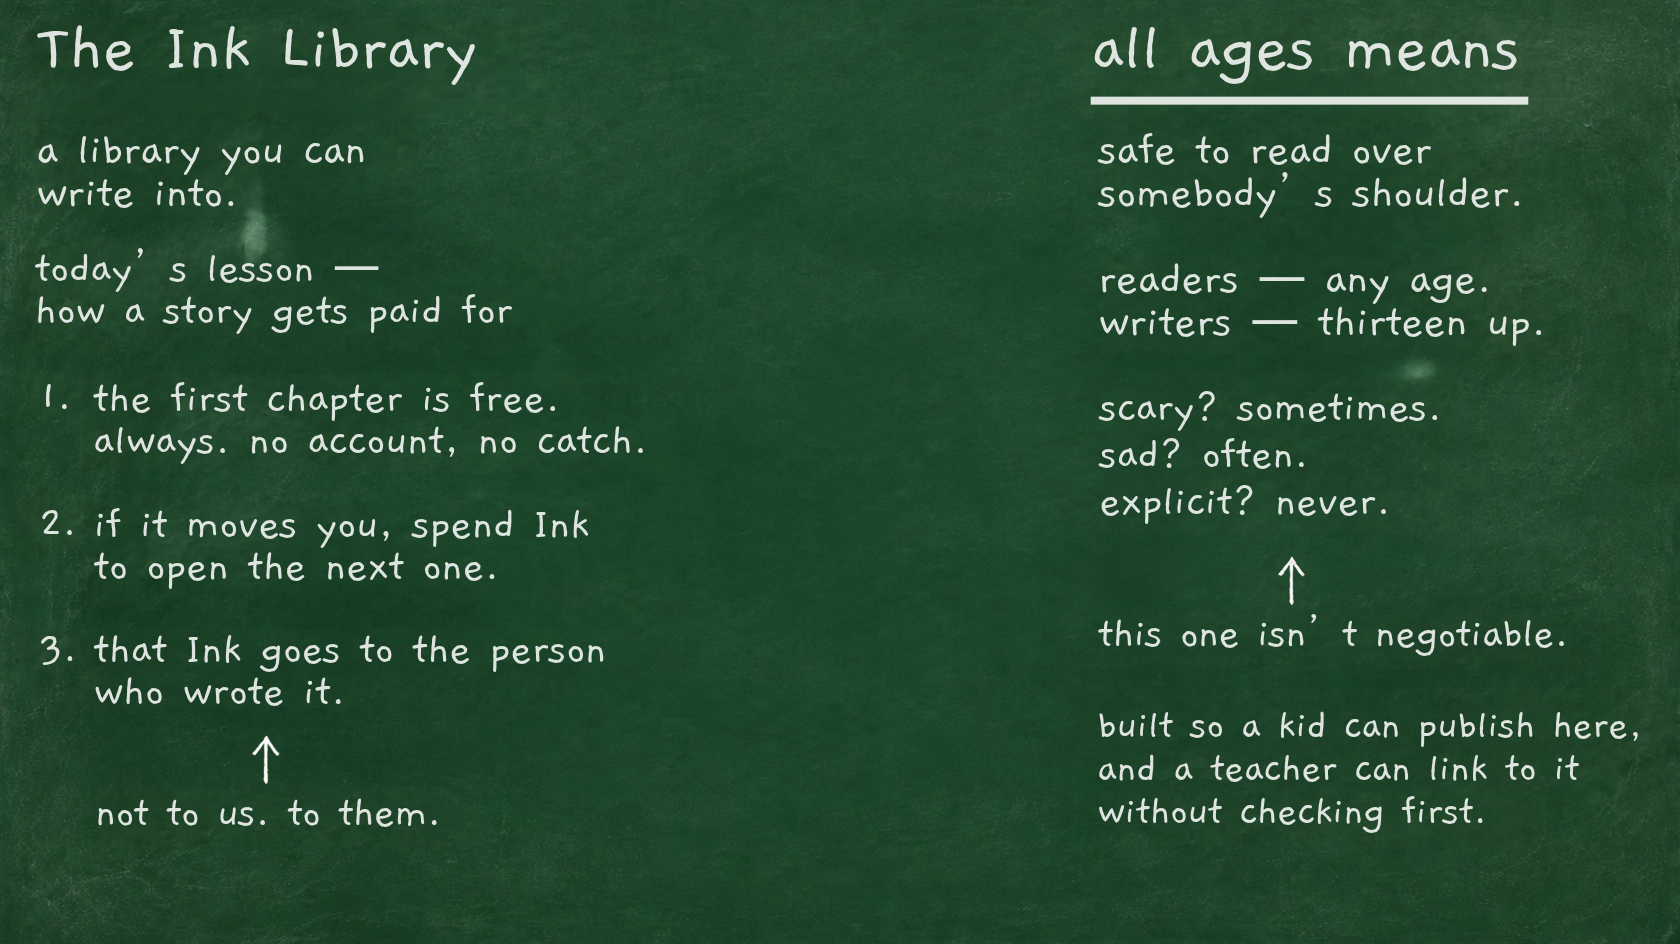
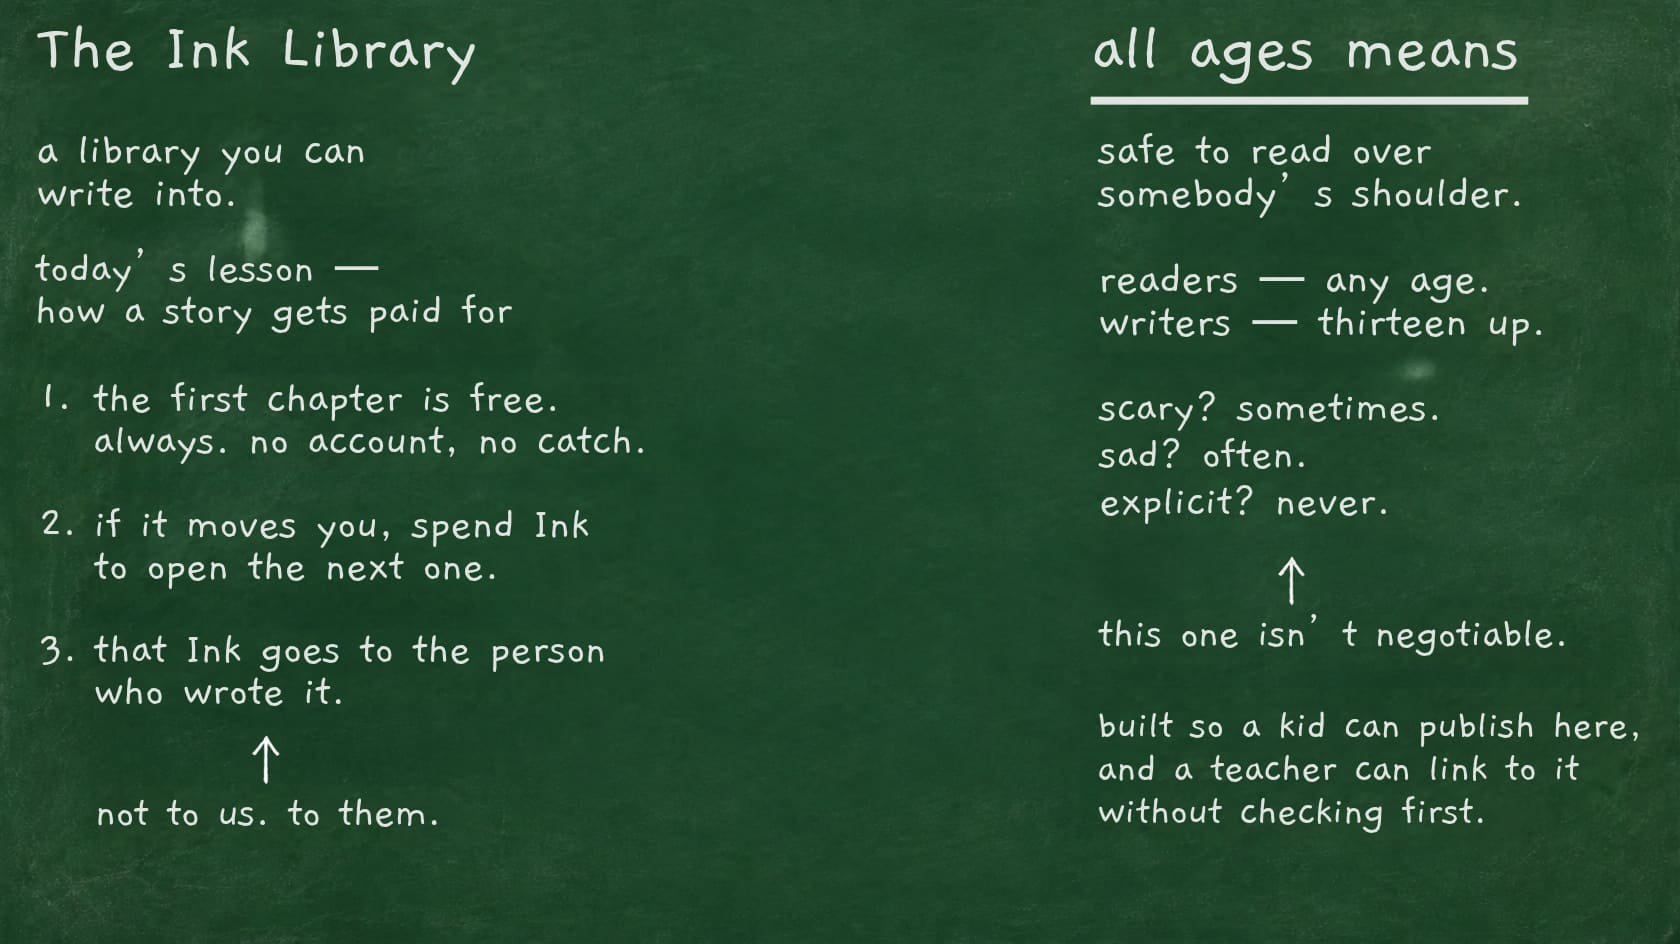
chalkboard background

Changed region(s): [[0.7738, 0.5222, 0.8048, 0.553], [0.0929, 0.4608, 0.1238, 0.4915]]

diff --git a/scripts/Shrink.js b/scripts/Shrink.js
@@ -1,0 +1,8 @@
+const sharp = require('sharp');
+
+sharp('public/images/chalkboard.jpg')
+  .resize({ width: 2560, withoutEnlargement: true })
+  .jpeg({ quality: 78, mozjpeg: true })
+  .toFile('public/images/chalkboard.min.jpg')
+  .then(i => console.log(`${(i.size / 1024).toFixed(0)} KB · ${i.width}x${i.height}`))
+  .catch(e => console.error(e));
